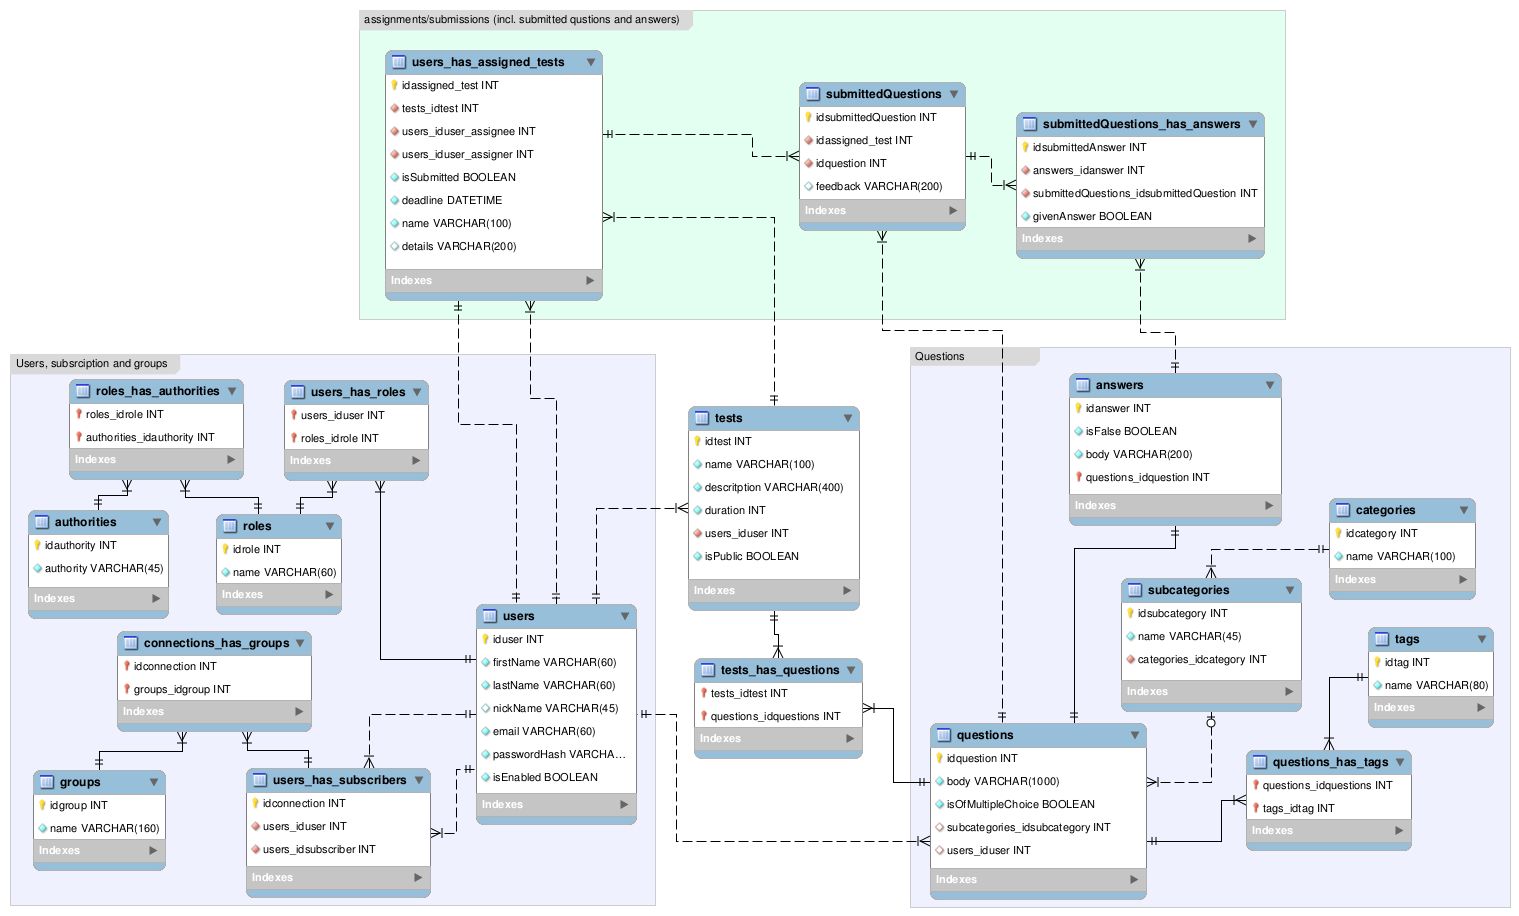
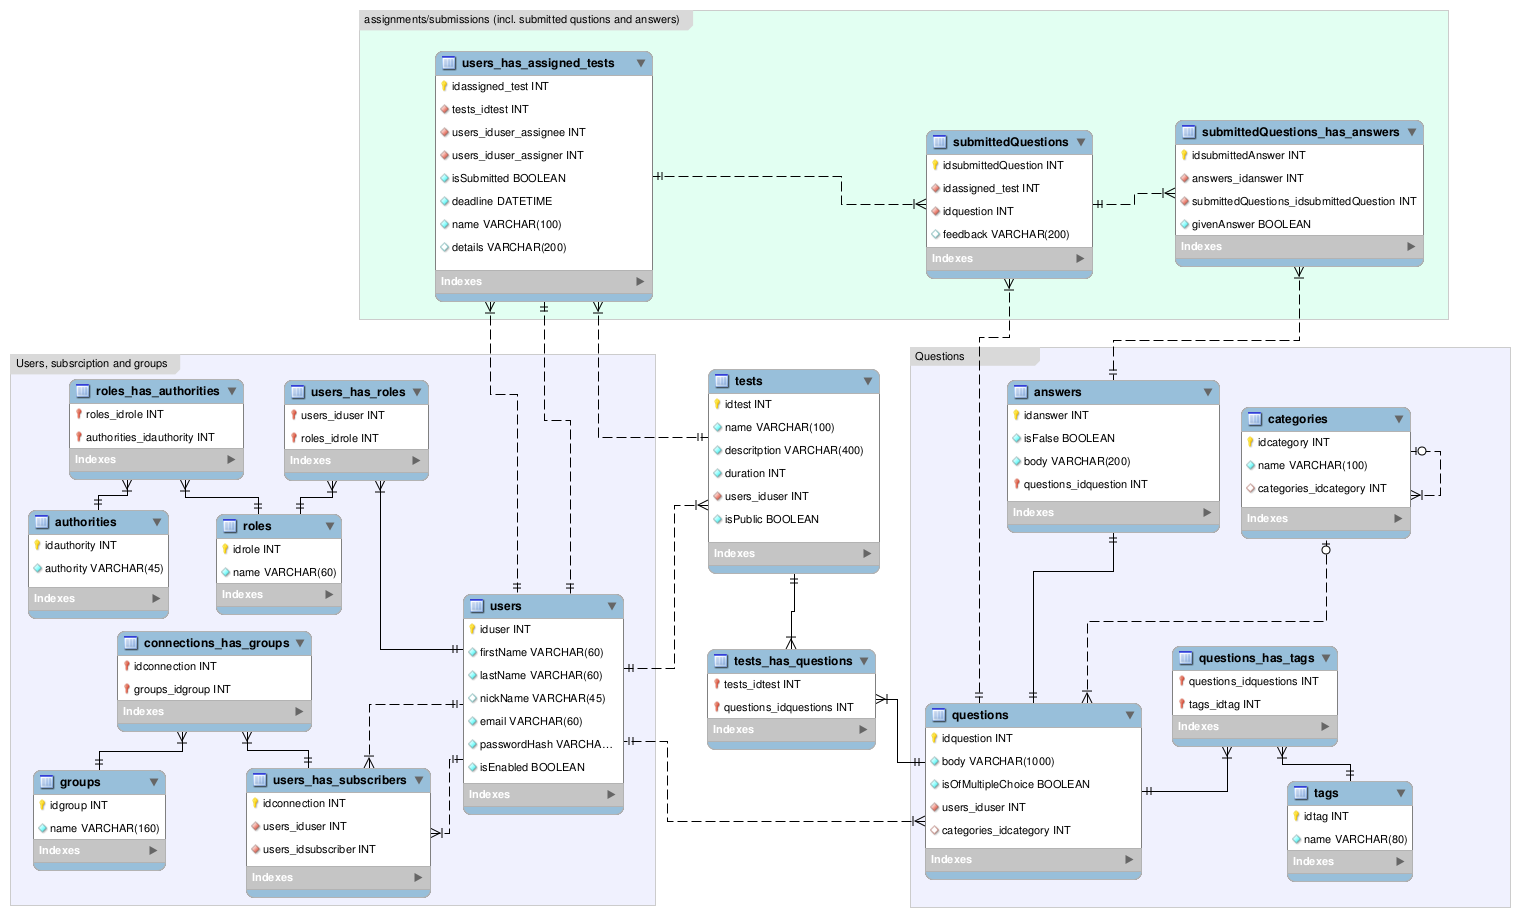
db schema changed (+helper methods added)

Changed region(s): [[0.2785, 0.3974, 0.9901, 1.0], [0.526, 0.0, 0.9592, 0.3668], [0.2475, 0.0306, 0.4332, 0.3362]]

diff --git a/src/main/java/by/htp/basumatarau/jd2TestSystem/controller/AssignmentController.java b/src/main/java/by/htp/basumatarau/jd2TestSystem/controller/AssignmentController.java
@@ -17,7 +17,6 @@ import org.springframework.validation.BindingResult;
 import org.springframework.web.bind.annotation.*;
 
 import javax.validation.Valid;
-import java.util.HashSet;
 import java.util.LinkedList;
 import java.util.Set;
 import java.util.stream.Collectors;
@@ -75,8 +74,9 @@ public class AssignmentController {
                                     //todo .orElseThrow(() ->new Exception())
                                     .get()
                     );
-                    submittedQuestion.setSubmittedTest(assignmentDetailed);
-                    submittedQuestionService.persistNewSubmission(submittedQuestion);
+                    //submittedQuestion.setSubmittedTest(assignmentDetailed);
+                    //submittedQuestionService.persistNewSubmission(submittedQuestion);
+                    assignmentDetailed.addSubmittedQuestion(submittedQuestion);
                     Set<SubmittedAnswer> submittedAnswerSet
                             = dtoSq.getSubmittedAnswerDtos().stream()
                             .map(dtoSa -> {
@@ -90,14 +90,17 @@ public class AssignmentController {
                                                 .get()
                                 );
                                 submittedAnswer.setGivenAnswer(dtoSa.isAnswer());
-                                submittedAnswer.setSubmittedQuestion(submittedQuestion);
-                                submittedAnswerService.persistNewSubmission(submittedAnswer);
+                                //submittedAnswer.setSubmittedQuestion(submittedQuestion);
+                                //submittedAnswerService.persistNewSubmission(submittedAnswer);
+                                submittedQuestion.addSubmittedAnswer(submittedAnswer);
                                 return submittedAnswer;
                             }).collect(Collectors.toSet());
                     return submittedQuestion;
                 }).collect(Collectors.toSet());
         assignmentDetailed.setSubmittedQuestionSet(submittedQuestions);
+
         assignmentDetailed.setSubmitted(true);
+
         assignmentService.updateAssignment(assignmentDetailed);
 
         return ResponseEntity.ok(HttpStatus.OK);

diff --git a/src/main/java/by/htp/basumatarau/jd2TestSystem/model/Category.java b/src/main/java/by/htp/basumatarau/jd2TestSystem/model/Category.java
@@ -17,21 +17,54 @@ public class Category {
     private String name;
 
     @OneToMany(mappedBy = "category")
-    private Set<Subcategory> subcategories;
+    private Set<Question> questions;
 
-    public Set<Subcategory> getSubcategories() {
-        return subcategories;
+    @ManyToOne
+    @JoinColumn(foreignKey = @ForeignKey,
+            nullable = true,
+            name = "categories_idcategory",
+            referencedColumnName = "idcategory")
+    private Category parentCategory;
+
+    @OneToMany(mappedBy = "parentCategory",
+            cascade = {CascadeType.ALL},
+            orphanRemoval = true)
+    private Set<Category> childCategories;
+
+    public void addChildCategory(Category category){
+        getChildCategories().add(category);
+        category.setParentCategory(this);
     }
 
-    public void setSubcategories(Set<Subcategory> subcategories) {
-        this.subcategories = subcategories;
+    public Category getParentCategory() {
+        return parentCategory;
+    }
+
+    public void setParentCategory(Category parentCategory) {
+        this.parentCategory = parentCategory;
+    }
+
+    public Set<Category> getChildCategories() {
+        return childCategories;
+    }
+
+    public void setChildCategories(Set<Category> childCategories) {
+        this.childCategories = childCategories;
+    }
+
+    public Set<Question> getQuestions() {
+        return questions;
+    }
+
+    public void setQuestions(Set<Question> questions) {
+        this.questions = questions;
     }
 
     public int getId() {
         return id;
     }
 
-    public void setId(int id) {
+    private void setId(int id) {
         this.id = id;
     }
 

diff --git a/src/main/java/by/htp/basumatarau/jd2TestSystem/model/Question.java b/src/main/java/by/htp/basumatarau/jd2TestSystem/model/Question.java
@@ -1,7 +1,6 @@
 package by.htp.basumatarau.jd2TestSystem.model;
 
 import javax.persistence.*;
-import java.util.HashSet;
 import java.util.LinkedHashSet;
 import java.util.Objects;
 import java.util.Set;
@@ -33,8 +32,8 @@ public class Question {
     private Set<Answer> answerSet = new LinkedHashSet<>();
 
     @ManyToOne
-    @JoinColumn(name = "subcategories_idsubcategory", nullable = true)
-    private Subcategory subcategory;
+    @JoinColumn(name = "categories_idcategory", nullable = true)
+    private Category category;
 
     @ManyToMany
     @JoinTable(
@@ -71,12 +70,12 @@ public class Question {
         this.answerSet = answerSet;
     }
 
-    public Subcategory getSubcategory() {
-        return subcategory;
+    public Category getCategory() {
+        return category;
     }
 
-    public void setSubcategory(Subcategory subcategory) {
-        this.subcategory = subcategory;
+    public void setCategory(Category category) {
+        this.category = category;
     }
 
     public Set<Tag> getTagSet() {

diff --git a/src/main/java/by/htp/basumatarau/jd2TestSystem/model/Assignment.java b/src/main/java/by/htp/basumatarau/jd2TestSystem/model/Assignment.java
@@ -120,6 +120,11 @@ public class Assignment {
         return submittedQuestionSet;
     }
 
+    public void addSubmittedQuestion(SubmittedQuestion submittedQuestion){
+        getSubmittedQuestionSet().add(submittedQuestion);
+        submittedQuestion.setSubmittedTest(this);
+    }
+
     public void setSubmittedQuestionSet(Set<SubmittedQuestion> submittedQuestionSet) {
         this.submittedQuestionSet = submittedQuestionSet;
     }

diff --git a/src/main/java/by/htp/basumatarau/jd2TestSystem/config/AppConfig.java b/src/main/java/by/htp/basumatarau/jd2TestSystem/config/AppConfig.java
@@ -51,7 +51,6 @@ public class AppConfig {
                 Authority.class,
                 Category.class,
                 Question.class,
-                Subcategory.class,
                 Tag.class,
                 Test.class,
                 User.class,

diff --git a/src/main/java/by/htp/basumatarau/jd2TestSystem/model/User.java b/src/main/java/by/htp/basumatarau/jd2TestSystem/model/User.java
@@ -99,7 +99,7 @@ public class User {
         return id;
     }
 
-    public void setId(int id) {
+    private void setId(int id) {
         this.id = id;
     }
 
